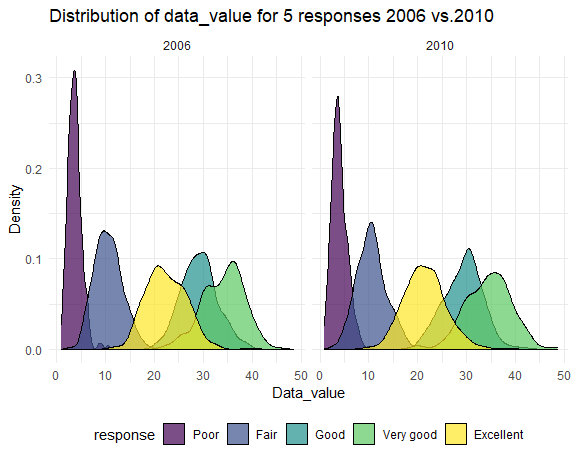
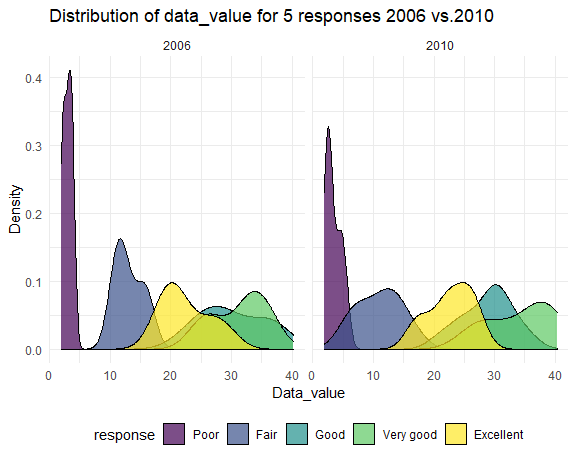
Final Version

diff --git a/p8105_hw3_xy2517.md b/p8105_hw3_xy2517.md
@@ -223,7 +223,7 @@ brfss %>%
     y = "Average data_value",
     title = "Average data_value over time"
   ) +
-  guides(color = guide_legend(nrow = 3))   #Accurately change legend into 3 rows
+  guides(color = guide_legend(nrow = 3))  #Accurately change legend into 3 rows
 ```
 
 <img src="p8105_hw3_xy2517_files/figure-gfm/unnamed-chunk-10-1.png" width="90%" />
@@ -232,7 +232,7 @@ brfss %>%
 
 ``` r
 brfss %>% 
-  filter(year %in% c(2006, 2010)) %>% 
+  filter(year %in% c(2006, 2010), state == "NY") %>% 
   ggplot(aes(x = data_value)) +
   geom_density(aes(fill = response), alpha = 0.7) +
   facet_grid(.~ year) +
